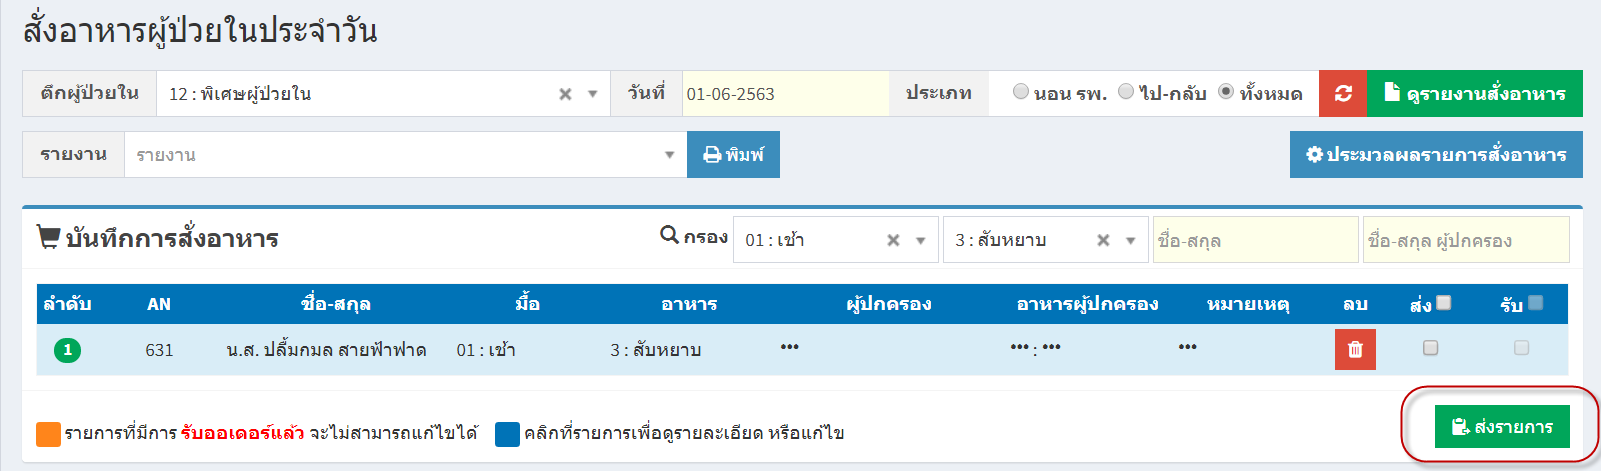
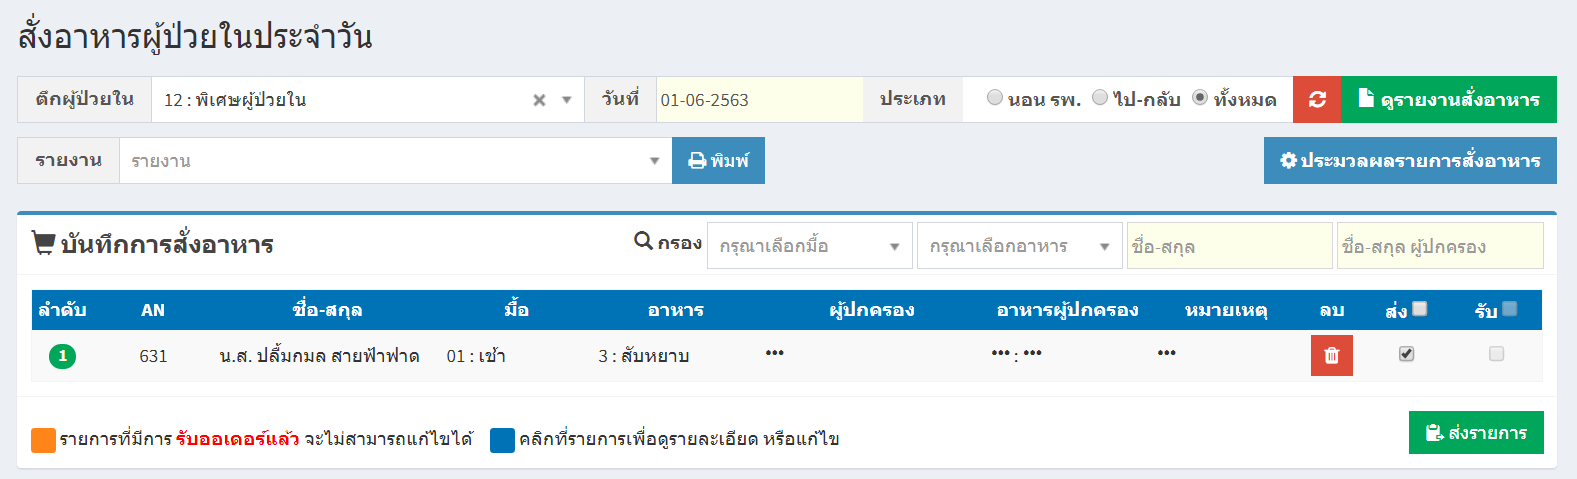
เพิ่มเมนู 214

diff --git a/docs/.vuepress/config.js b/docs/.vuepress/config.js
@@ -48,6 +48,7 @@ module.exports = {
           '/user-manual/211-ipd-servexpense',
           '/user-manual/212-ipd-move-building',
           '/user-manual/213-ipd-food-order',
+          '/user-manual/214-ipd-confirm-food-order',
           '/user-manual/300-finance',
           '/user-manual/301-discharge',
           '/user-manual/302-cancel-receipt',

diff --git a/docs/user-manual/214-ipd-confirm-food-order.md b/docs/user-manual/214-ipd-confirm-food-order.md
@@ -1,0 +1,20 @@
+---
+title: 214 - รับ Order รายการอาหาร
+---
+
+# 214 - รับ Order รายการอาหาร
+
+1. เลือกตึกผู้ป่วยใน และกดปุ่ม "ดูรายงานสั่งอาหาร"
+
+![Logo](./img/image214-1.png)
+
+2. จะปรากฎข้อมูลการสั่งอาหารผู้ป่วย
+
+![Logo](./img/image214-2.png)
+
+3. คลิกเลือกช่อง "รับ" 
+กดปุ่ม "รับ Order" เป็นอันเสร็จเรียบร้อยแล้ว จะปรากฎ "บันทึกสำเร็จ"
+
+![Logo](./img/image214-3.png)
+
+![Logo](./img/image214-4.png)
